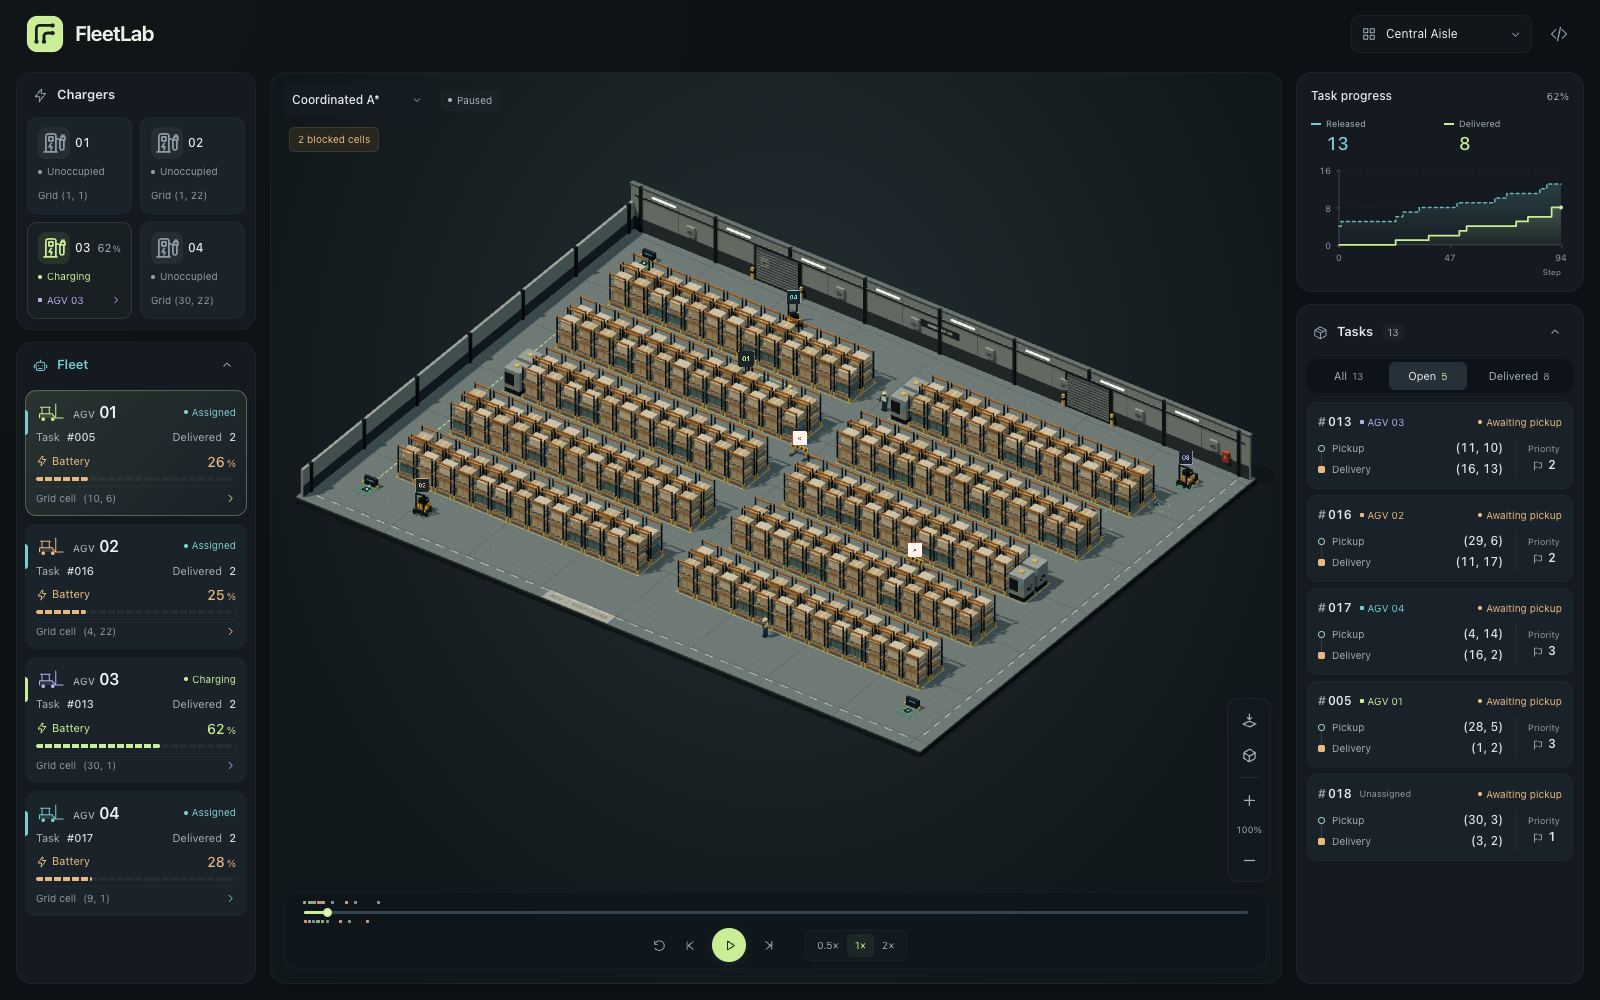
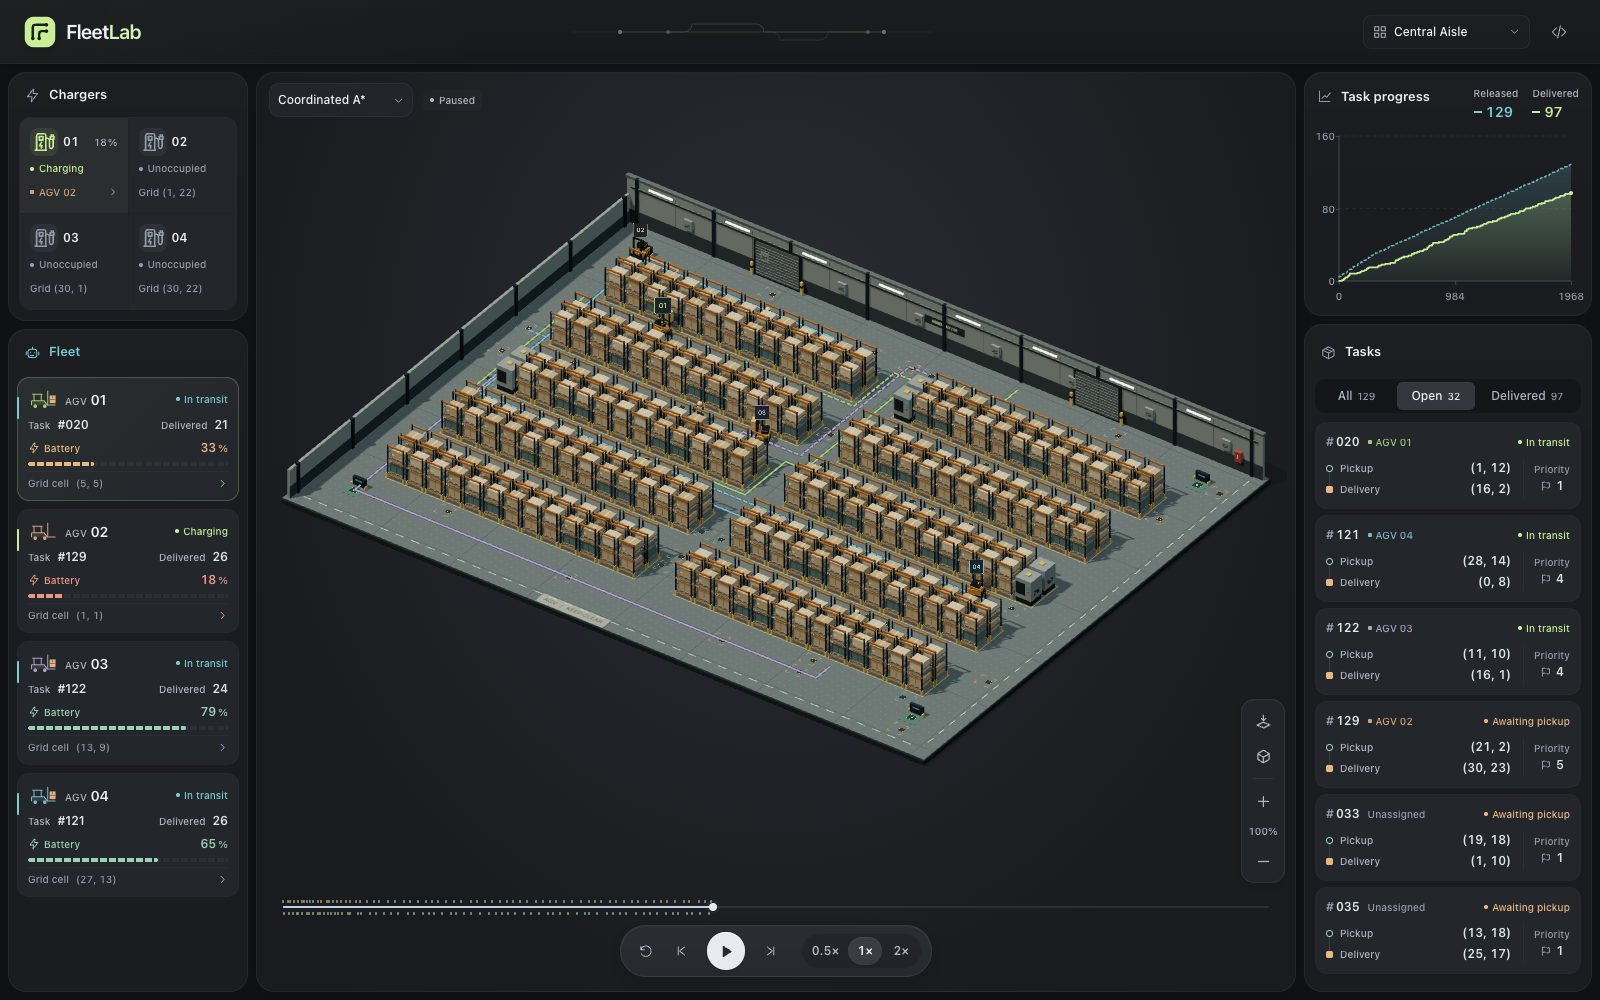
Refresh README screenshot with the current FleetLab console
Replace the outdated preview with a real 1600x1000 screenshot of the latest UI.
Show task progress, forklift routes, cargo and charger status during a replay.
Update the image description without changing application code or replay data.

diff --git a/README.md b/README.md
@@ -12,7 +12,7 @@ Coordinated forklifts. Shared factory floors. Interactive 3D simulation replays.
 
 </div>
 
-[![FleetLab industrial factory with task-scoped routes, fleet and charger status, and a compact task queue](docs/assets/replay-explorer.png)](https://revincxt.github.io/FleetLab/)
+[![FleetLab console with a 3D factory, forklift routes, fleet and charger status, task progress, and a compact task queue](docs/assets/replay-explorer.png)](https://revincxt.github.io/FleetLab/)
 
 ## Overview
 
